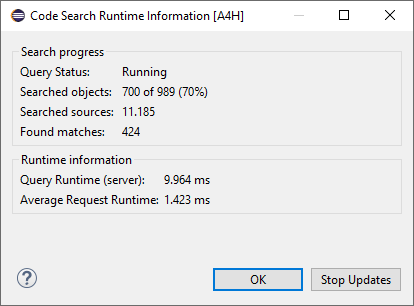
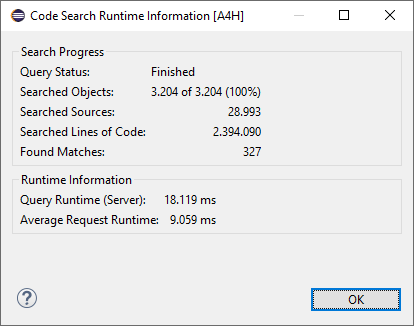
docs: add changelog for version v1.3.0

diff --git a/com.devepos.adt.codesearch.ui/html/changelog/v1_3_0.html b/com.devepos.adt.codesearch.ui/html/changelog/v1_3_0.html
@@ -1,0 +1,17 @@
+<!DOCTYPE html>
+<html id="doc-page">
+<head>
+<link rel="stylesheet" type="text/css" href="../../css/main.css" />
+<meta http-equiv="Content-Type" content="text/html; charset=utf-8" />
+<title>Version 1.3.0</title>
+</head>
+
+<body id="doc-body">
+	<h2 class="heading">Version 1.3.0</h2>
+	<h3 class="heading">ABAP Code Search</h3>
+	<h4>Features</h4>
+	<ul class="list">
+		<li>Show the searched <em>lines of code</em> in the runtime information dialog</li>
+	</ul>
+</body>
+</html>

diff --git a/com.devepos.adt.codesearch.ui/html/changelog/overview.html b/com.devepos.adt.codesearch.ui/html/changelog/overview.html
@@ -12,13 +12,11 @@
 	<i>ABAP Code Search</i>
 
 	<ul class="li">
+		<li><a class="link" href="./v1_3_0.html">Version 1.3.0</a>
 		<li><a class="link" href="./v1_2_0.html">Version 1.2.0</a>
-	</ul>
-	<ul class="li">
 		<li><a class="link" href="./v1_1_0.html">Version 1.1.0</a>
-	</ul>
-	<ul class="li">
-		<li><a class="link" href="./v1_0_0.html">Version 1.0.0 (initial release)</a>
+		<li><a class="link" href="./v1_0_0.html">Version 1.0.0
+				(initial release)</a>
 	</ul>
 </body>
 </html>
